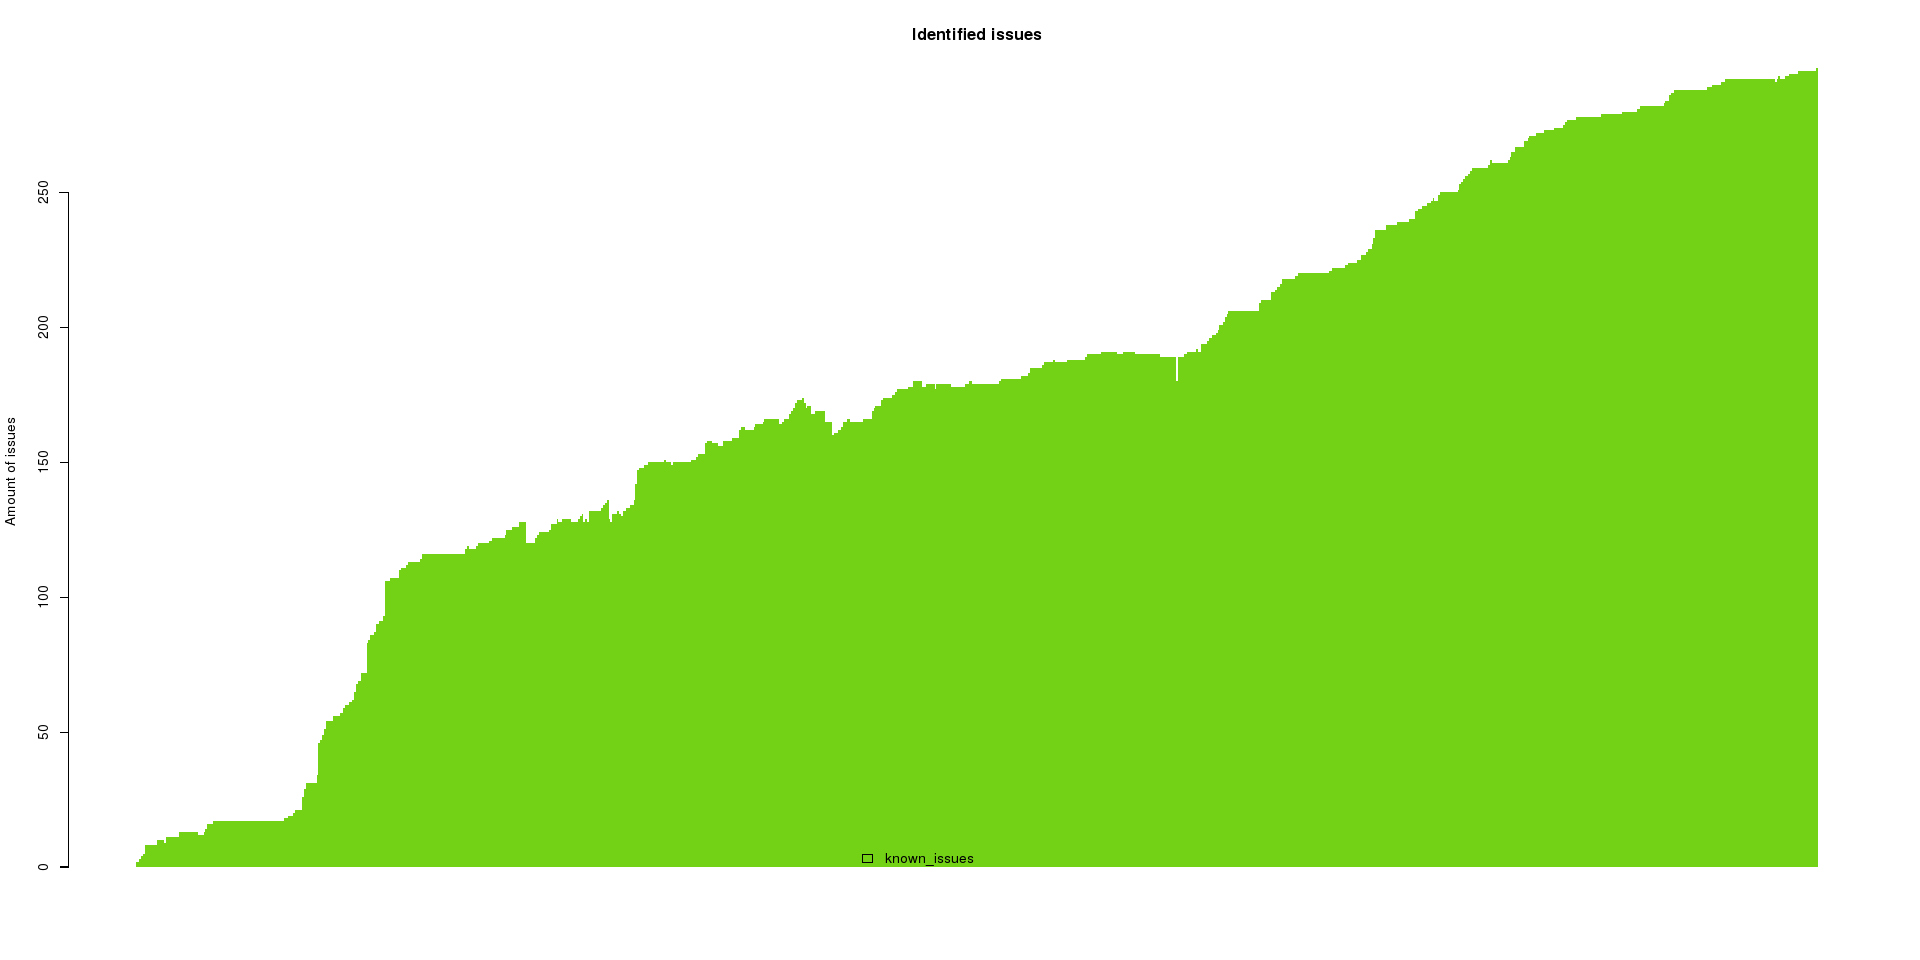
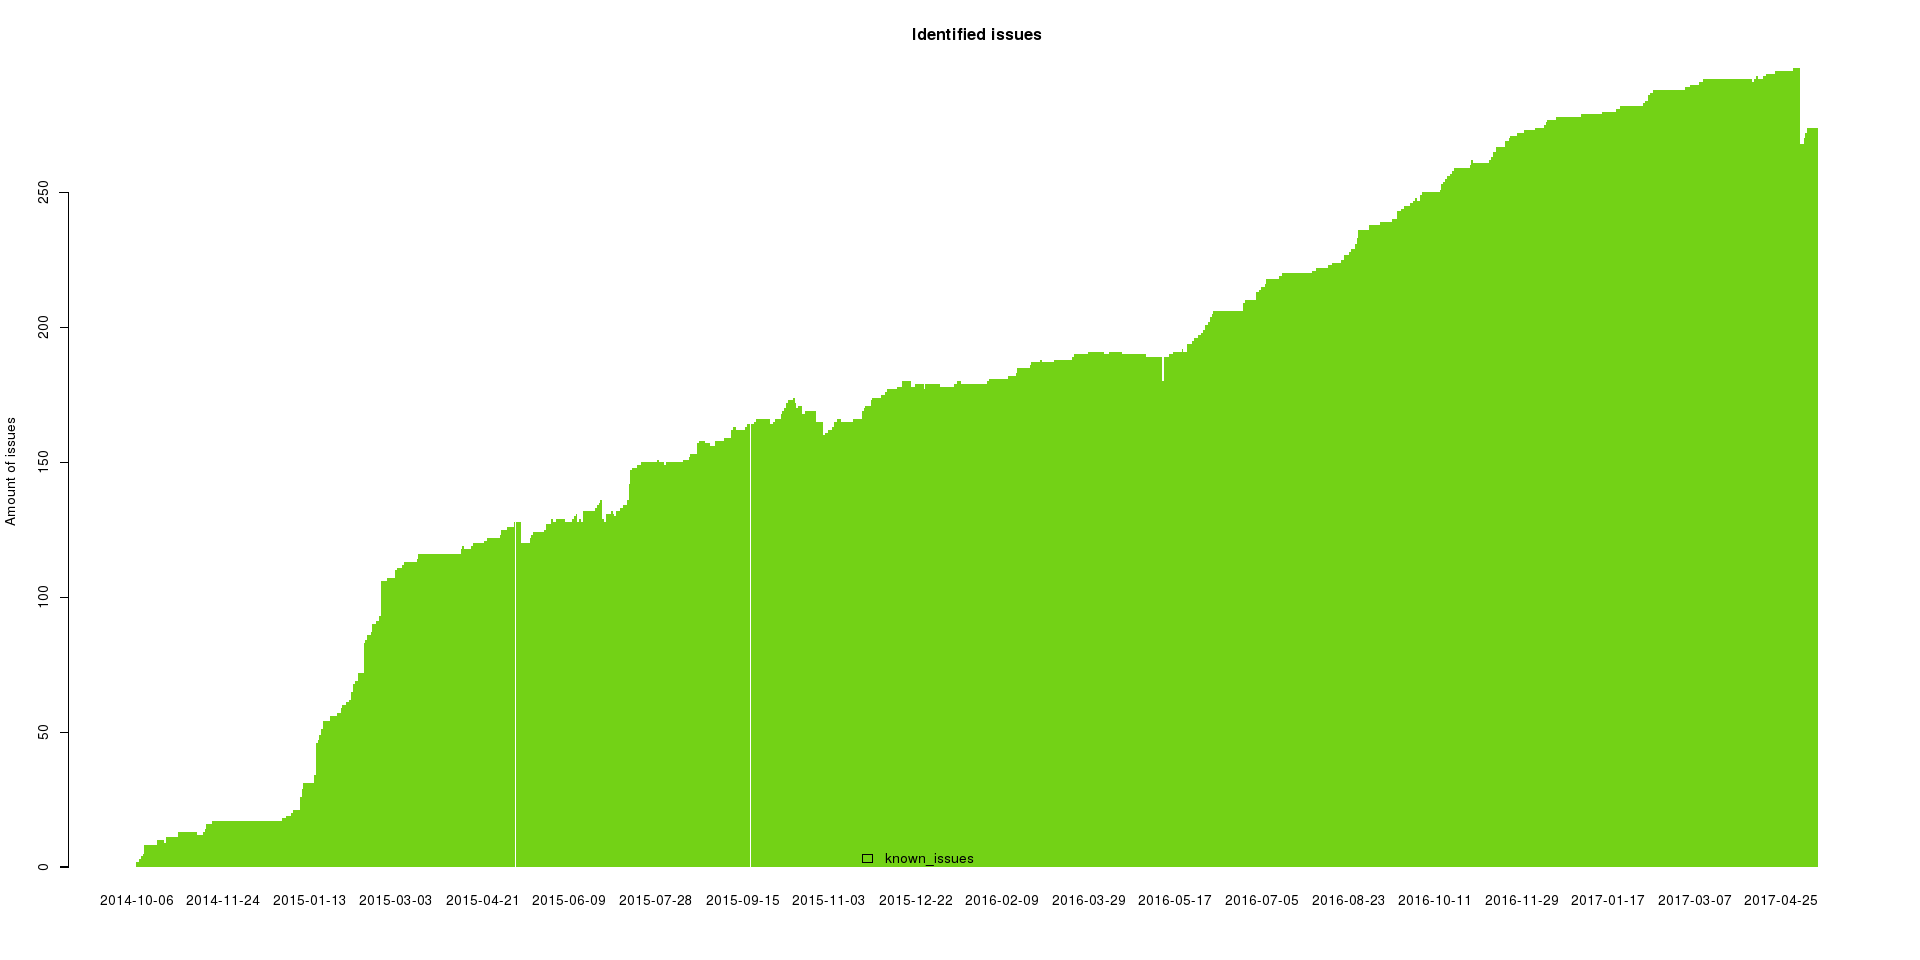
More details on how Debian works on reproducibility.

diff --git a/ch8.tex b/ch8.tex
@@ -1,29 +1,46 @@
-\section{Current state of the project}
+\section{Current state of the Reproducible Builds project}
 
 \subsection[Debian]{Debian}
 \nopagebreak[4]{
 Debian continues its work toward ensuring that all of the packages in the distribution are bit-by-bit reproducible. 
 To continuously check the status of reproducibility of individual packages, testing infrastructure is set up, reporting results on \autocite{tests-rbo}.
-For the packages that are not reproducible for the tested variations, the diffoscope output is provided. That allows for an easier identification of underlying issues.\\
-All the issues are inspected and categorized by people taking part in the Reproducible Builds project. Meaningful diffoscope output allows for a easier identification of issues at this step.\\
-Figure \ref{fig:stats_issues} illustrates the process of identifying new issues that cause packages to be not reproducible. Figure \ref{fig:stats_notes} shows statistics about number of packages with notes attached to them, meaning that there is an identified issue or some sort of comment for them attached to them.\\
-\begin{figure}
-\centering
-\includegraphics[width=0.95\textwidth]{fig/stats_issues.png}
-\caption{\label{fig:stats_issues}Number of categorized reproducibility issues.}
-\end{figure}
-\begin{figure}
-\centering
-\includegraphics[width=0.95\textwidth]{fig/stats_notes.png}
-\caption{\label{fig:stats_notes}Number of packages that have notes.}
-\end{figure}
-The nest step after the issue is identified is to fix it. For that, members of the project contact the maintainers of the packages with suggested edits. They collaborate with them to explain an issue and provide a ready way to fix it, so usually maintainers only have to accept the proposed patch.\\
-Figure \ref{fig:stats_sid} shows the current status of reproducibility of Debian packages for unstable (sid) version of the distribution built for the amd64 target architecture.\\
+For the packages that are not reproducible for the tested variations, the diffoscope output is provided. That allows for an easier identification of underlying issues.\\\\
+Currently, the work of Reproducible Builds project members within Debian is focused on three main areas:
+\subsubsection[Continuous testing of Debian packages]{Continuous testing of Debian packages} 
+Debian reproducibility testing server \autocite{tests-rbo} shows the status of reproducibility of Debian packages across several releases (stable, unstable, experimental) and architectures (amd64, i386, arm64, armhf). Reproducibility testing here means that the package is built two times, with some variations introduced between builds. For the packages that are not reproducible within this setup, diffoscope is run and its output is published, so it is easily accessible for package maintainers, Reproducible Builds project members and other interested parties. Reproducibility tests are re-run periodically, and the statistics about results of these tests is gathered.\\\\
+Figure \ref{fig:stats_sid} shows the current status of reproducibility of Debian packages for unstable version of the distribution built for the amd64 target architecture. Note that the drop in number of reproducible packages in August, 2016 is connected to the new variation -- build path -- being introduced for unstable and experimental distribution. It turned out quite a lot of packages are affected by build path storing issue, and since then, there was quite a lot of work within a project targeting this issue.
+
 \begin{figure}
 \centering
 \includegraphics[width=0.95\textwidth]{fig/stats_pkg_state.png}
 \caption{\label{fig:stats_sid}Overview of reproducible builds for packages in Debian unstable for amd64 architecture.}
 \end{figure}
+
+\subsubsection[Categorizing the issues]{Categorizing the issues} 
+With diffoscope result for the packages available, Reproducible Builds project members try to identify the root issue causing reproducibility. It is often the case that the issue is not within the package itself, but rather in the tools used in the build process. Therefore, it is important to identify common issues and focus on resolving them in a unified way.\\\\
+Some examples of the most common issues are:
+\begin{itemize}[noitemsep]
+\item \textit{Capturing build path} -- a lot of packages store the path where the package was built, during the build phase. This is inconvenient since this information is rarely helpful to end users; usually, the package is built on some dedicated build server and not on target computer. This issue is one of the main focus of Reproducible Build project members now, and they coordinate with maintainers of packages as well as build tools developers in order to address it.
+\item \textit{Storing Timestamps} -- while this issue was addressed by \texttt{SOURCE\_DATE\_EPOCH}, some packages still record the build date or time.
+\end{itemize}
+Figure \ref{fig:stats_issues} illustrates the changes in the number of identified issues. This number generally rises over time, as new issues are being found and the old ones are often categorized into smaller and more specific issues. Even if the issue is completely dealt with, it is often left in records if it is believed information about it could be useful to other issues or other projects.\\\\
+
+\begin{figure}
+\centering
+\includegraphics[width=0.95\textwidth]{fig/stats_issues.png}
+\caption{\label{fig:stats_issues}Number of categorized reproducibility issues.}
+\end{figure}
+
+Figure \ref{fig:stats_notes} shows statistics about number of packages with notes attached to them, meaning that there is an identified issue or some sort of comment for them attached to them. Once again, a massive change is observed at around August, 2016, as the build path variation was introduced, resulting in a lot of packages being labeled with build path recording issue.\\
+
+\begin{figure}
+\centering
+\includegraphics[width=0.95\textwidth]{fig/stats_notes.png}
+\caption{\label{fig:stats_notes}Number of packages that have notes.}
+\end{figure}
+\subsubsection[Fixing reproducibility bugs]{Fixing reproducibility bugs}
+While only package maintainers or developers actually have the means to fix their package, members of Reproducible Builds project try to help them by reporting the reproducibility issue. As a rule, they also provide a patch that is expected to fix the issue. Sometimes additional coordination with package maintainer or developer is required to ensure the patch fits well within the package and to clarify its meaning.\\\\
+A lot of issues are related to the usage of the specific tool in the build process, and therefore it is usually preferred to focus on fixing these issues in the build tool in question, therefore helping all the packages using that tool to achieve reproducibility.
 
 }
 \subsection[F-droid]{F-droid}
